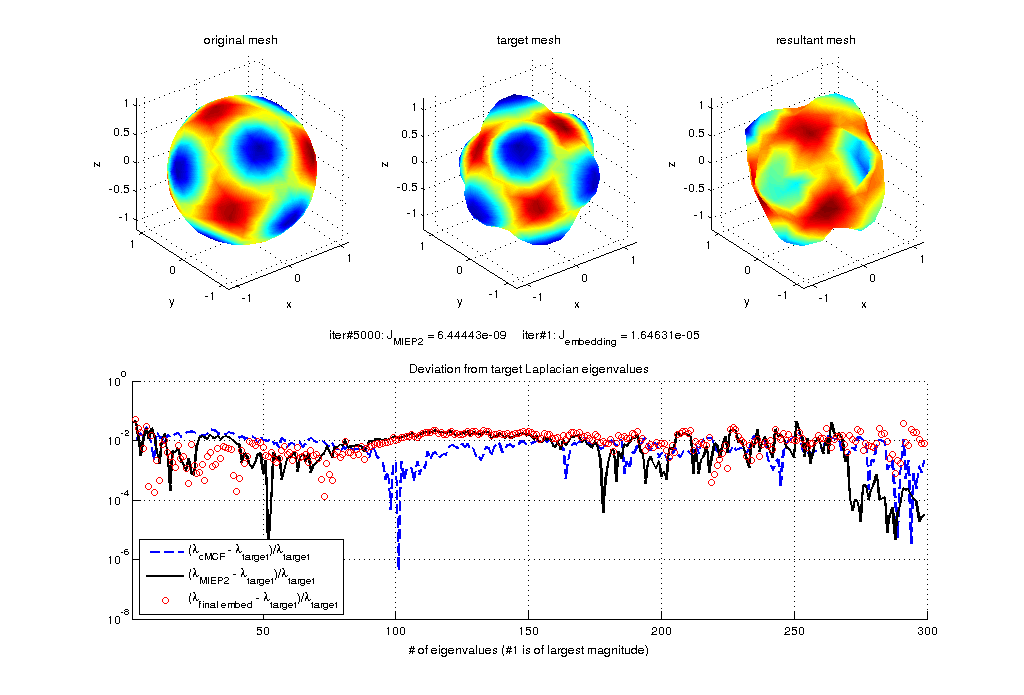
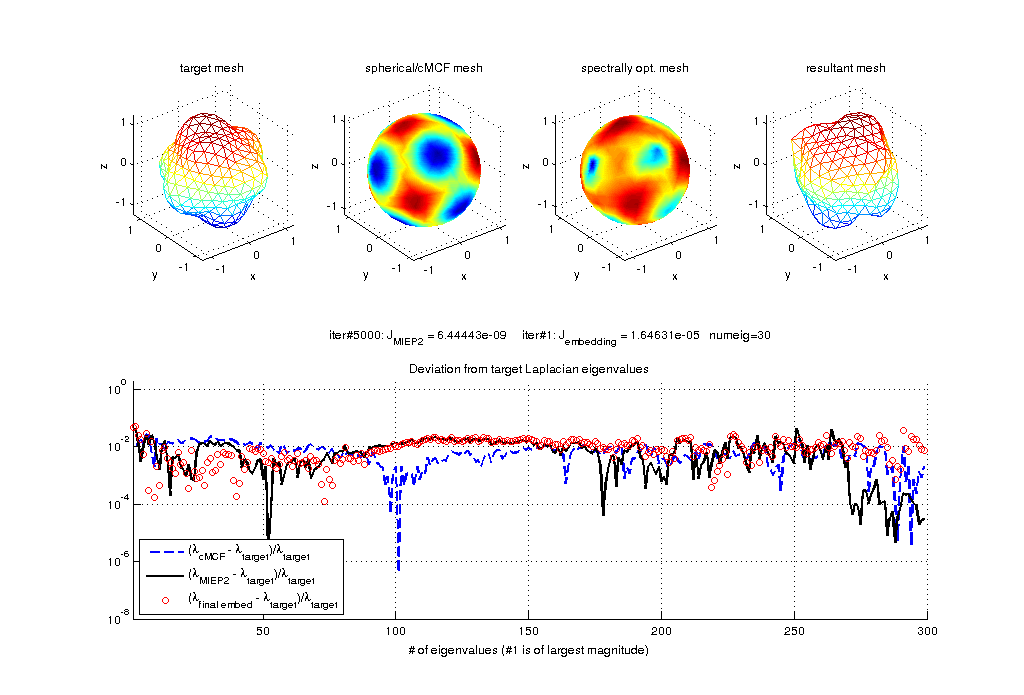
new_vis

diff --git a/visualize.m b/visualize.m
@@ -24,23 +24,13 @@ v_end = dcmrot(v_end,dcm_end);
 
 figh = figure(); set(gcf,'outerposition',[0, 0, 1024, 768]);
 %% compare mesh
-subplot(2,3,1); hold all; view(3); grid on; axis equal
-trisurf(f,v(:,1),v(:,2),v(:,3),s_T,...
-  'facecolor','interp','edgecolor','none')
-vlim = max(max(abs(v)));
-vlim = [-vlim vlim];
-set(gca,'xlim',vlim,'ylim',vlim,'zlim',vlim);
-xlabel('x'); ylabel('y'); zlabel('z');
-title('original mesh');
-
 if isempty(v_T)
-  subplot(2,3,2);
-  text(0,0.5,'target given as spectrum');
+  subplot(2,4,1);
+  title('target spectrum');
   set(gca, 'visible', 'off')
 else
-  subplot(2,3,2); hold all; view(3); grid on; axis equal
-  trisurf(f_T,v_T(:,1),v_T(:,2),v_T(:,3),s_T,...
-    'facecolor','interp','edgecolor','none')
+  subplot(2,4,1); hold all; view(3); grid on; axis equal
+  trimesh(f_T,v_T(:,1),v_T(:,2),v_T(:,3));
   vlim = max(max(abs(v_T)));
   vlim = [-vlim vlim];
   set(gca,'xlim',vlim,'ylim',vlim,'zlim',vlim);
@@ -48,9 +38,26 @@ else
   title('target mesh');
 end
 
-subplot(2,3,3); hold all; view(3); grid on; axis equal
-trisurf(f,v_end(:,1),v_end(:,2),v_end(:,3),s_end,...
-  'facecolor','interp','edgecolor','none')
+subplot(2,4,2); hold all; view(3); grid on; axis equal
+trisurf(f,v(:,1),v(:,2),v(:,3),s_T,...
+  'facecolor','interp','edgecolor','none');
+vlim = max(max(abs(v)));
+vlim = [-vlim vlim];
+set(gca,'xlim',vlim,'ylim',vlim,'zlim',vlim);
+xlabel('x'); ylabel('y'); zlabel('z');
+title('spherical/cMCF mesh');
+
+subplot(2,4,3); hold all; view(3); grid on; axis equal
+trisurf(f,v(:,1),v(:,2),v(:,3),s_end,...
+  'facecolor','interp','edgecolor','none');
+vlim = max(max(abs(v_end)));
+vlim = [-vlim vlim];
+set(gca,'xlim',vlim,'ylim',vlim,'zlim',vlim);
+xlabel('x'); ylabel('y'); zlabel('z');
+title('spectrally opt. mesh');
+
+subplot(2,4,4); hold all; view(3); grid on; axis equal
+trimesh(f,v_end(:,1),v_end(:,2),v_end(:,3));
 vlim = max(max(abs(v_end)));
 vlim = [-vlim vlim];
 set(gca,'xlim',vlim,'ylim',vlim,'zlim',vlim);
@@ -59,6 +66,7 @@ title('resultant mesh');
 
 %% compare spectra
 
+numeig = numel(D_T);
 [M,L] = lapbel(v,f);
 D_MCF = eigvf(L,diag(1./s_T)*M,size(v,1));
 [M_T,L_T] = lapbel(v_T,f_T);
@@ -72,7 +80,7 @@ else
   D_endp = [nan(size(v,1)-numel(D_endp),1); D_endp];
 end
 
-subplot(2,3,4:6); hold all; grid on;
+subplot(2,4,5:8); hold all; grid on;
 v0 = (D_MCF - D_T)./D_T;
 v1 = (D_endp - D_T)./D_T;
 v2 = (D_end - D_T)./D_T;
@@ -119,11 +127,12 @@ pause(.1);
 set(ax,'xlim',[1 numel(D_T)])
 xm = get(ax,'xlim');
 ym = get(ax,'ylim');
-ym = [ym(1) 1]; set(ax,'ylim',ym)
+ym = [ym(1) 2]; set(ax,'ylim',ym)
 text(floor(max(xm)/4),((ym(2)/ym(1))^c2*ym(2) + c1*diff(ym)),...
-  num2str([numel(J_hist) J_hist(end) numel(Jc_hist) Jc_hist(end)],...
+  num2str([numel(J_hist) J_hist(end) numel(Jc_hist) Jc_hist(end), ...
+  numeig],...
   ['iter#%d: J_{MIEP2} = %g     ',...
-  'iter#%d: J_{embedding} = %g']));
+  'iter#%d: J_{embedding} = %g   numeig=%d']));
 
 colormap('jet');
 

diff --git a/do_graphics.m b/do_graphics.m
@@ -1,5 +1,5 @@
 close all;
-[~,datalist] = unix('basename -s .mat -a i*.mat');
+[~,datalist] = unix('basename -s .mat -a i*abs*.mat');
 % [token,remain] = strtok(datalist);
 datalist = textscan(datalist,'%s');
 for i = 1:size(datalist{1},1)
@@ -9,7 +9,7 @@ for i = 1:size(datalist{1},1)
   load([token '.mat']);
   figh = visualize(v,v_T,v_end,f,f_T,s_end,s_T,...
     J_hist,Jc_hist,D_0,D_T,D_endp,D_end);
-  pause(.1);
+%   pause(.1);
   hgexport(figh,[token '.png'],...
       hgexport('factorystyle'), 'Format', 'png');
 %   [token,remain] = strtok(remain);
